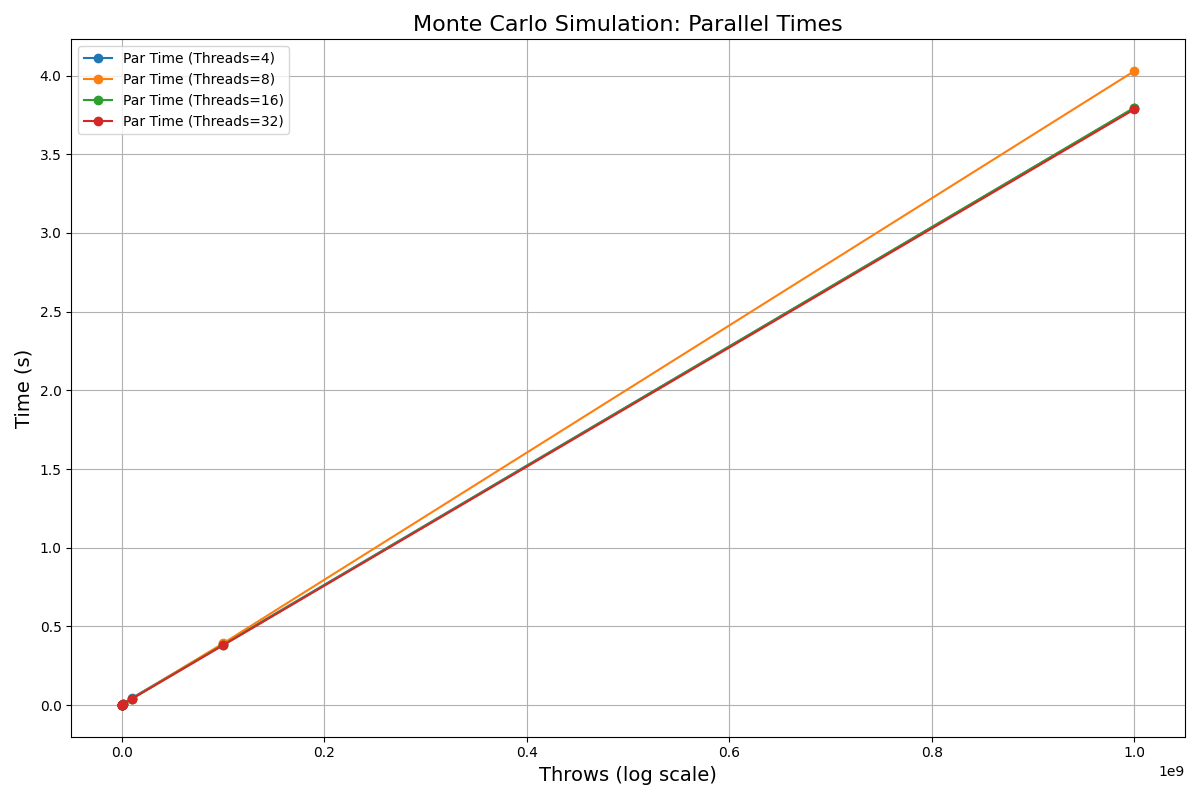
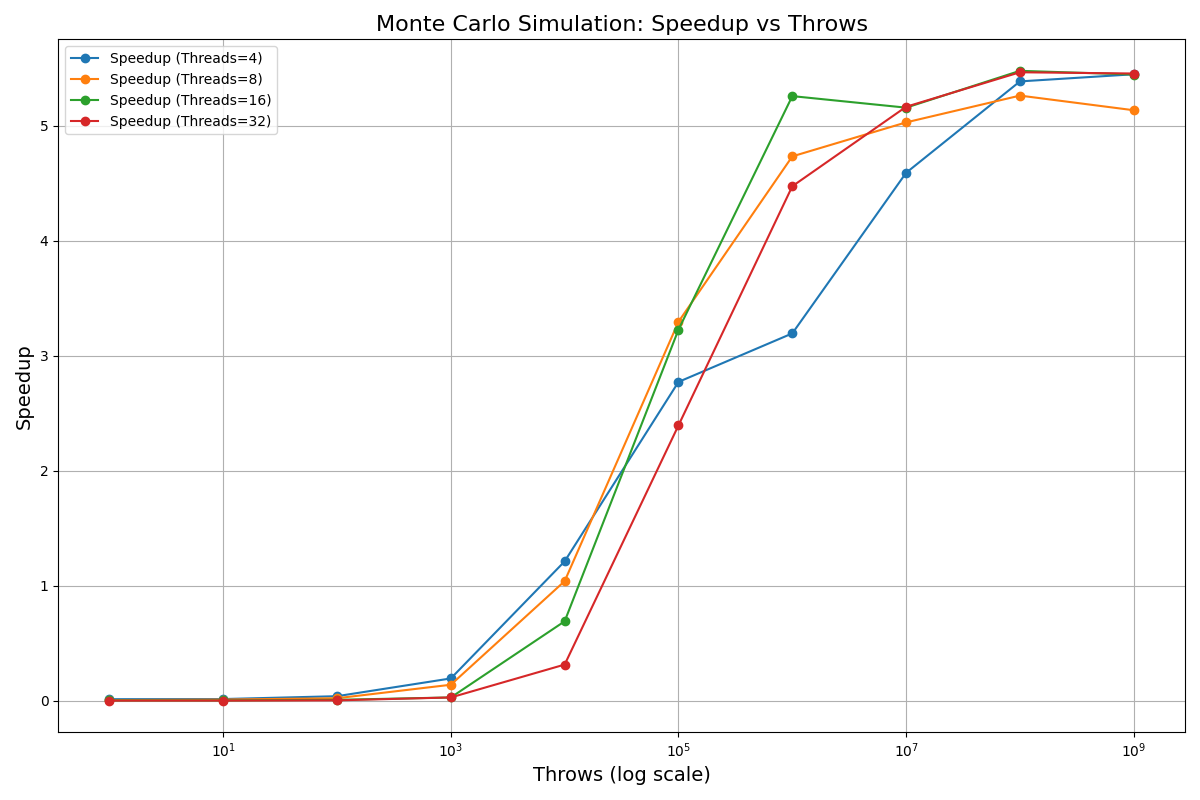
small fix monte_carlo_plot

diff --git a/Assignment 1/scripts/monte_carlo_results.py b/Assignment 1/scripts/monte_carlo_results.py
@@ -5,25 +5,28 @@ import matplotlib.pyplot as plt
 csv_file = "monte_carlo_results.csv"
 data = pd.read_csv(csv_file)
 
+# Calculate speedup
+data['Speedup'] = data['Sequential Time (s)'] / data['Parallel Time (s)']
+
 # Group data by threads
 threads = data['Threads'].unique()
 
-# Plot sequential and parallel times for each thread count
+# Plot speedup for each thread count
 plt.figure(figsize=(12, 8))
 
 for thread_count in threads:
     subset = data[data['Threads'] == thread_count]
-    # plt.plot(subset['Throws'], subset['Sequential Time (s)'], label=f"Seq Time (Threads={thread_count})", linestyle="--") # Uncomment to plot sequential times
-    plt.plot(subset['Throws'], subset['Parallel Time (s)'], label=f"Par Time (Threads={thread_count})", marker='o')
+    plt.plot(subset['Throws'], subset['Speedup'], label=f"Speedup (Threads={thread_count})", marker='o')
 
 # Add labels, legend, and title
+plt.xscale('log')  # Use logarithmic scale for the x-axis
 plt.xlabel('Throws (log scale)', fontsize=14)
-plt.ylabel('Time (s)', fontsize=14)
-plt.title('Monte Carlo Simulation: Parallel Times', fontsize=16)
+plt.ylabel('Speedup', fontsize=14)
+plt.title('Monte Carlo Simulation: Speedup vs Throws', fontsize=16)
 plt.legend()
 plt.grid(True)
 plt.tight_layout()
 
 # Save and show the plot
-plt.savefig("monte_carlo_plot.png")
+plt.savefig("monte_carlo_speedup.png")
 plt.show()
